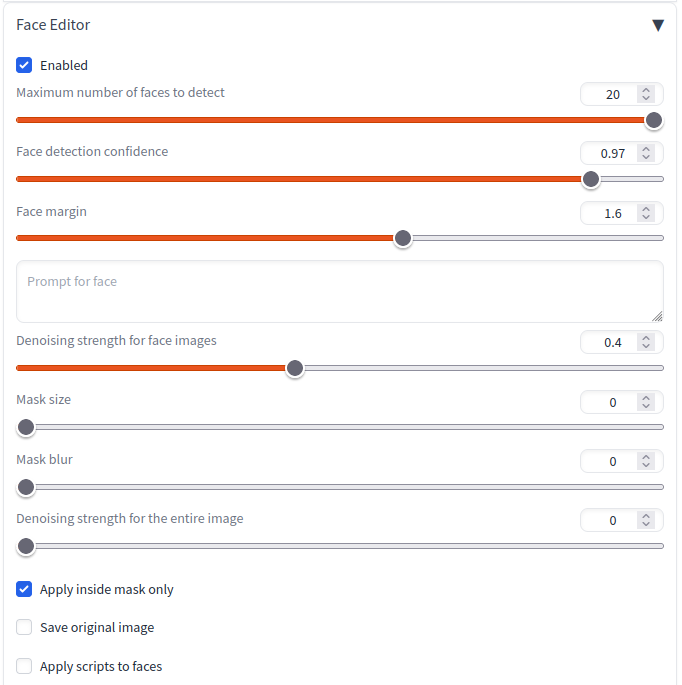
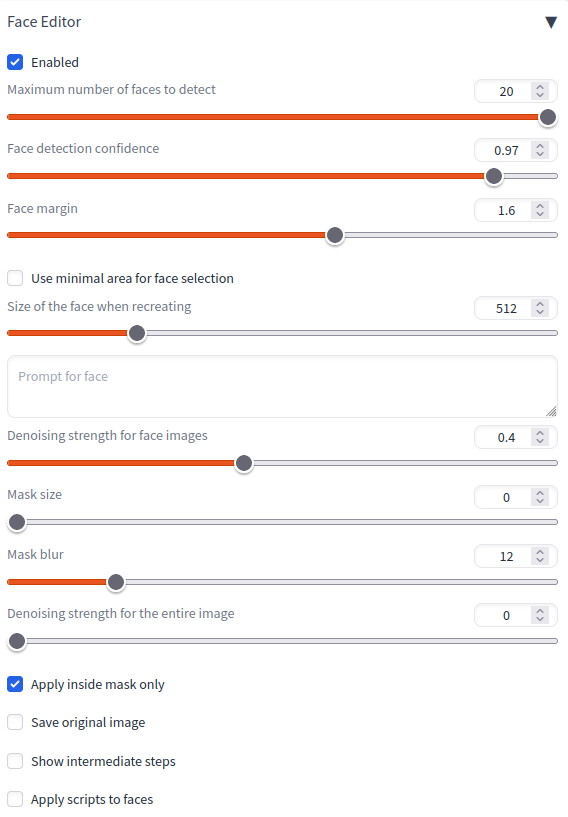
improve mask blur effect

Changed region(s): [[0.0, 0.0, 0.9877, 0.4292], [0.0, 0.4599, 0.9877, 1.0], [0.9278, 0.0, 0.9877, 0.0613]]

diff --git a/scripts/face_editor.py b/scripts/face_editor.py
@@ -132,8 +132,8 @@ class Script(scripts.Script):
         )
         mask_size = gr.Slider(label="Mask size", minimum=0,
                               maximum=64, step=1, value=0)
-        mask_blur = gr.Slider(label="Mask blur", minimum=0,
-                              maximum=64, step=1, value=0)
+        mask_blur = gr.Slider(label="Mask blur ", minimum=0,
+                              maximum=64, step=1, value=12)
         strength2 = gr.Slider(
             minimum=0.0,
             maximum=1.0,
@@ -374,6 +374,8 @@ class Script(scripts.Script):
                 face.width, face.height))
             mask_image = cv2.resize(mask_image, dsize=(
                 face.width, face.height))
+            if mask_blur > 0:
+                mask_image = cv2.blur(mask_image, (mask_blur, mask_blur))
 
             if use_minimal_area:
                 l, t, r, b = face.face_area

diff --git a/README.md b/README.md
@@ -34,6 +34,7 @@ Please try the following settings first:
 
 - Set the **"Mask size"** to `0`.
 - Check **"Apply inside mask only"**
+- Set the **"Mask blur"** to `12`.
 - Set the **"Denoising strength for the entire image"** to `0`.
 
 ![Recommended settings](./images/tips-01.png)
